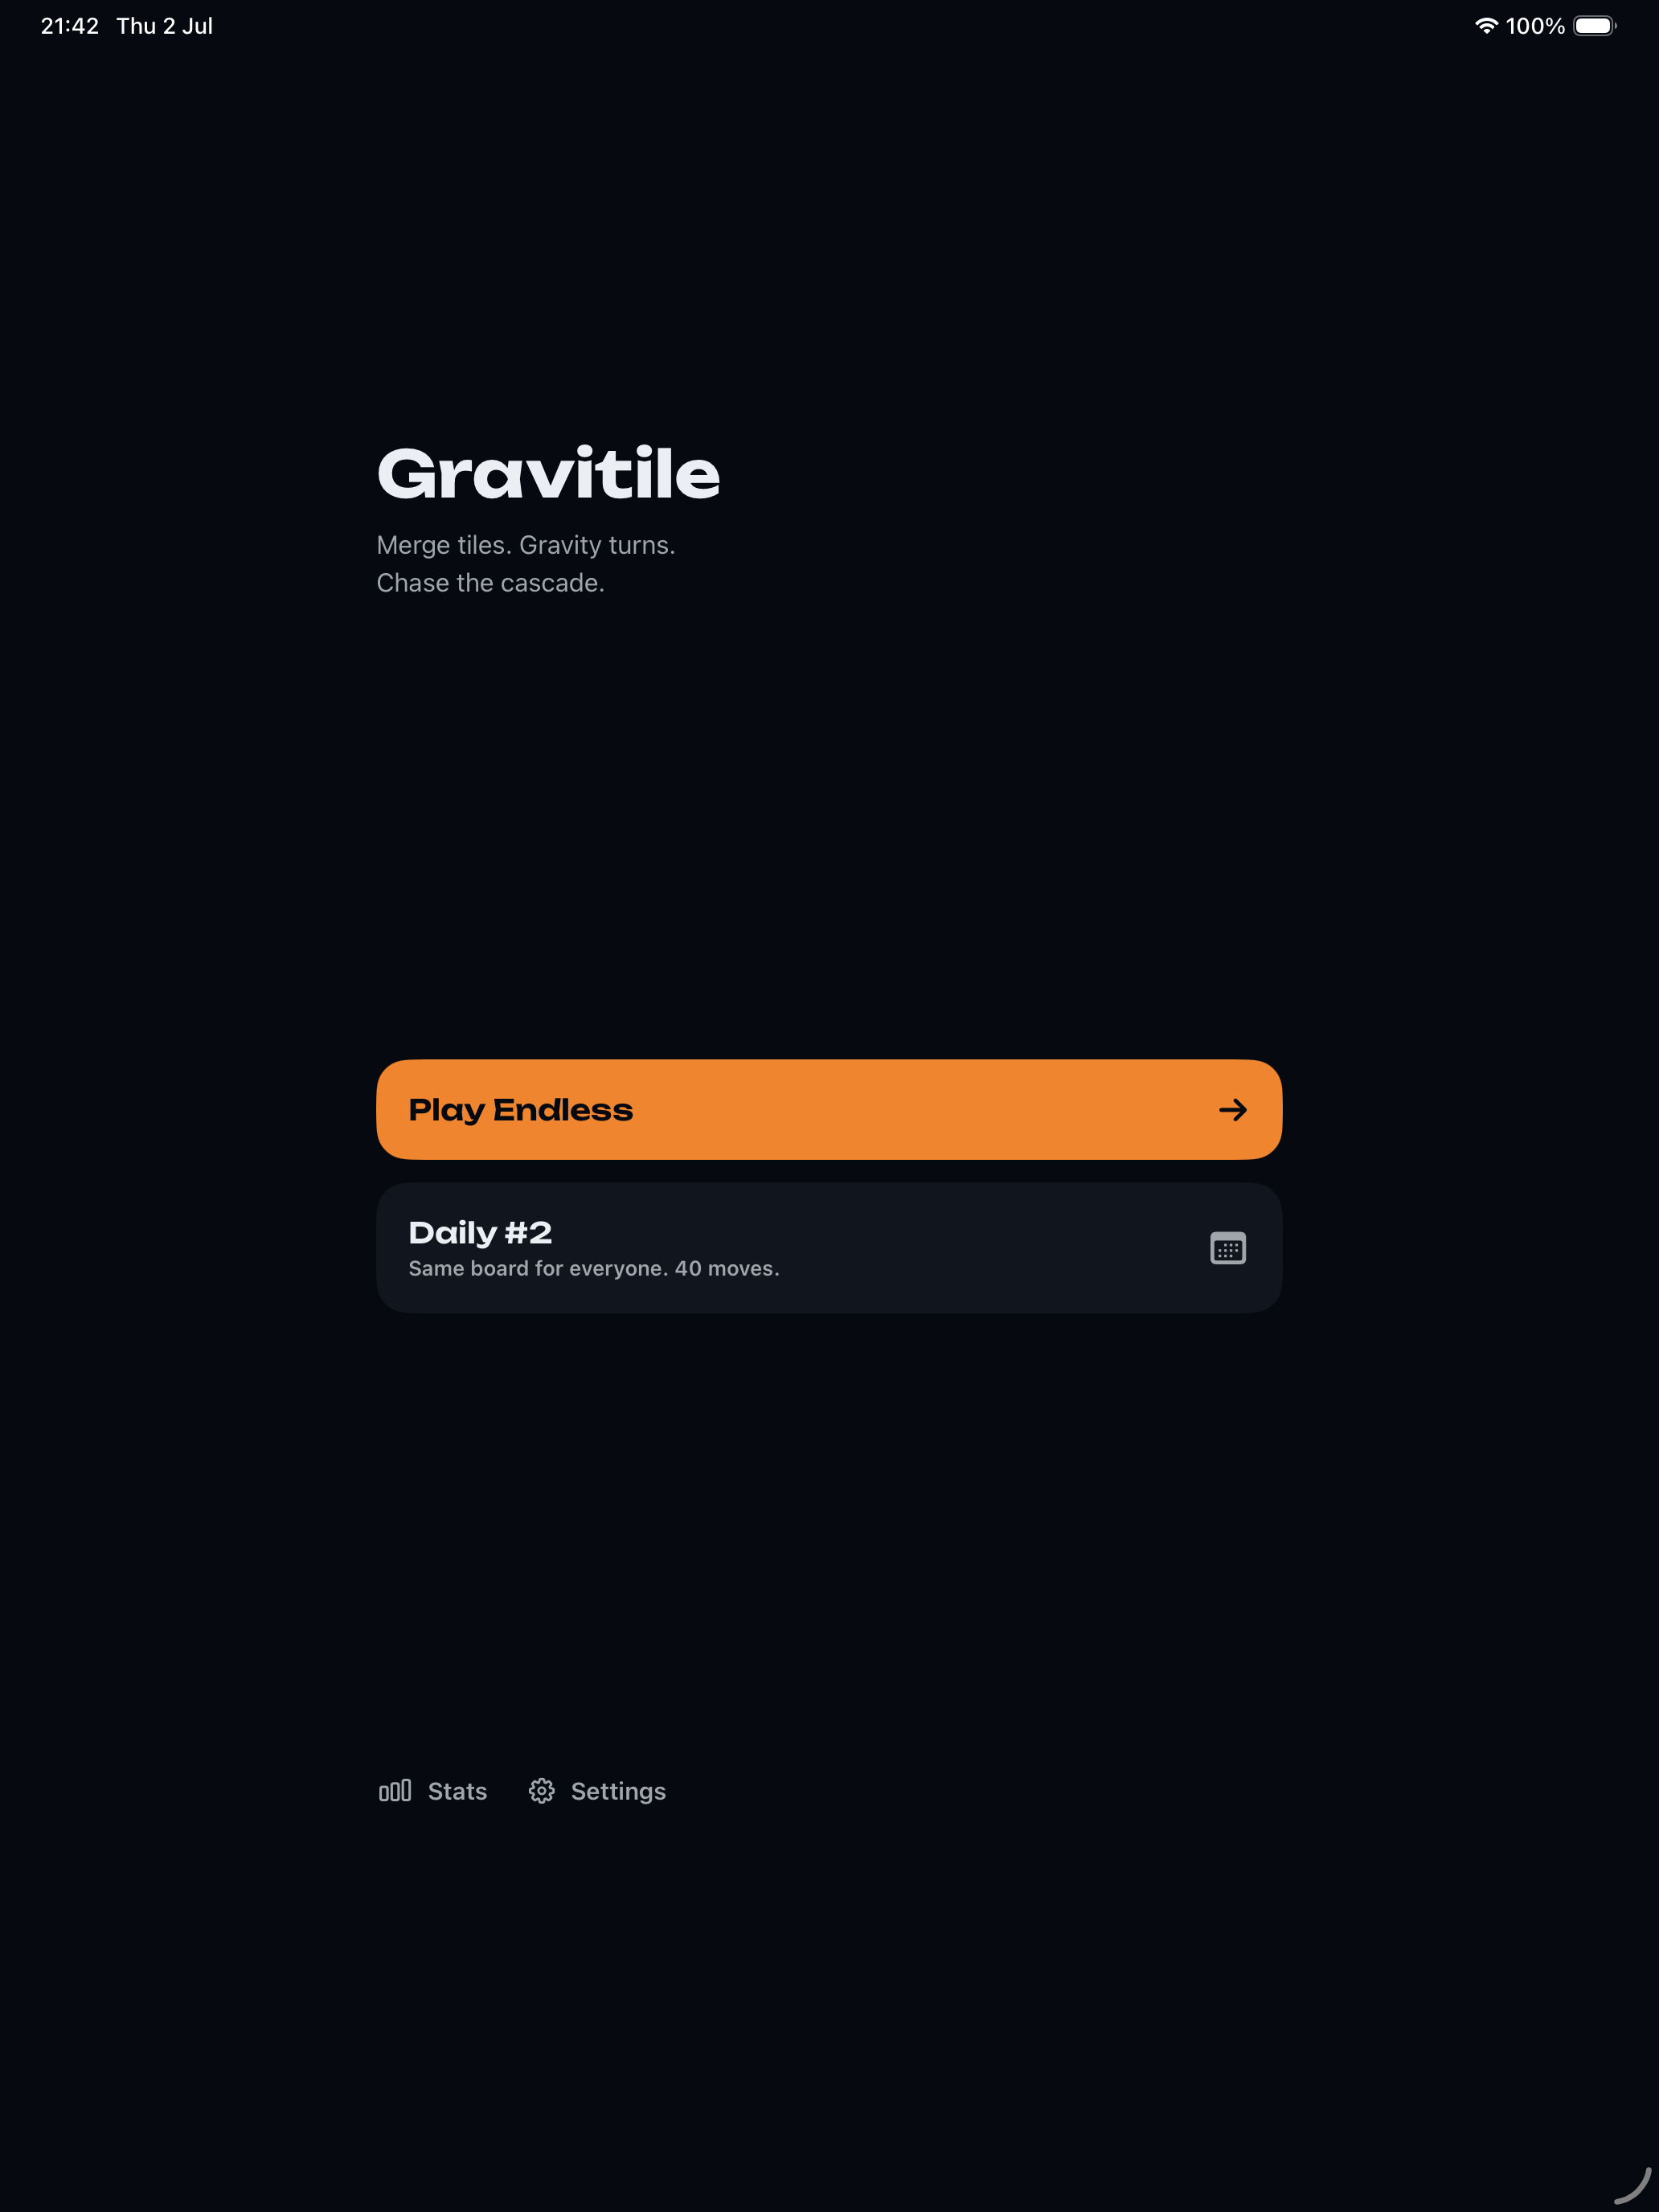
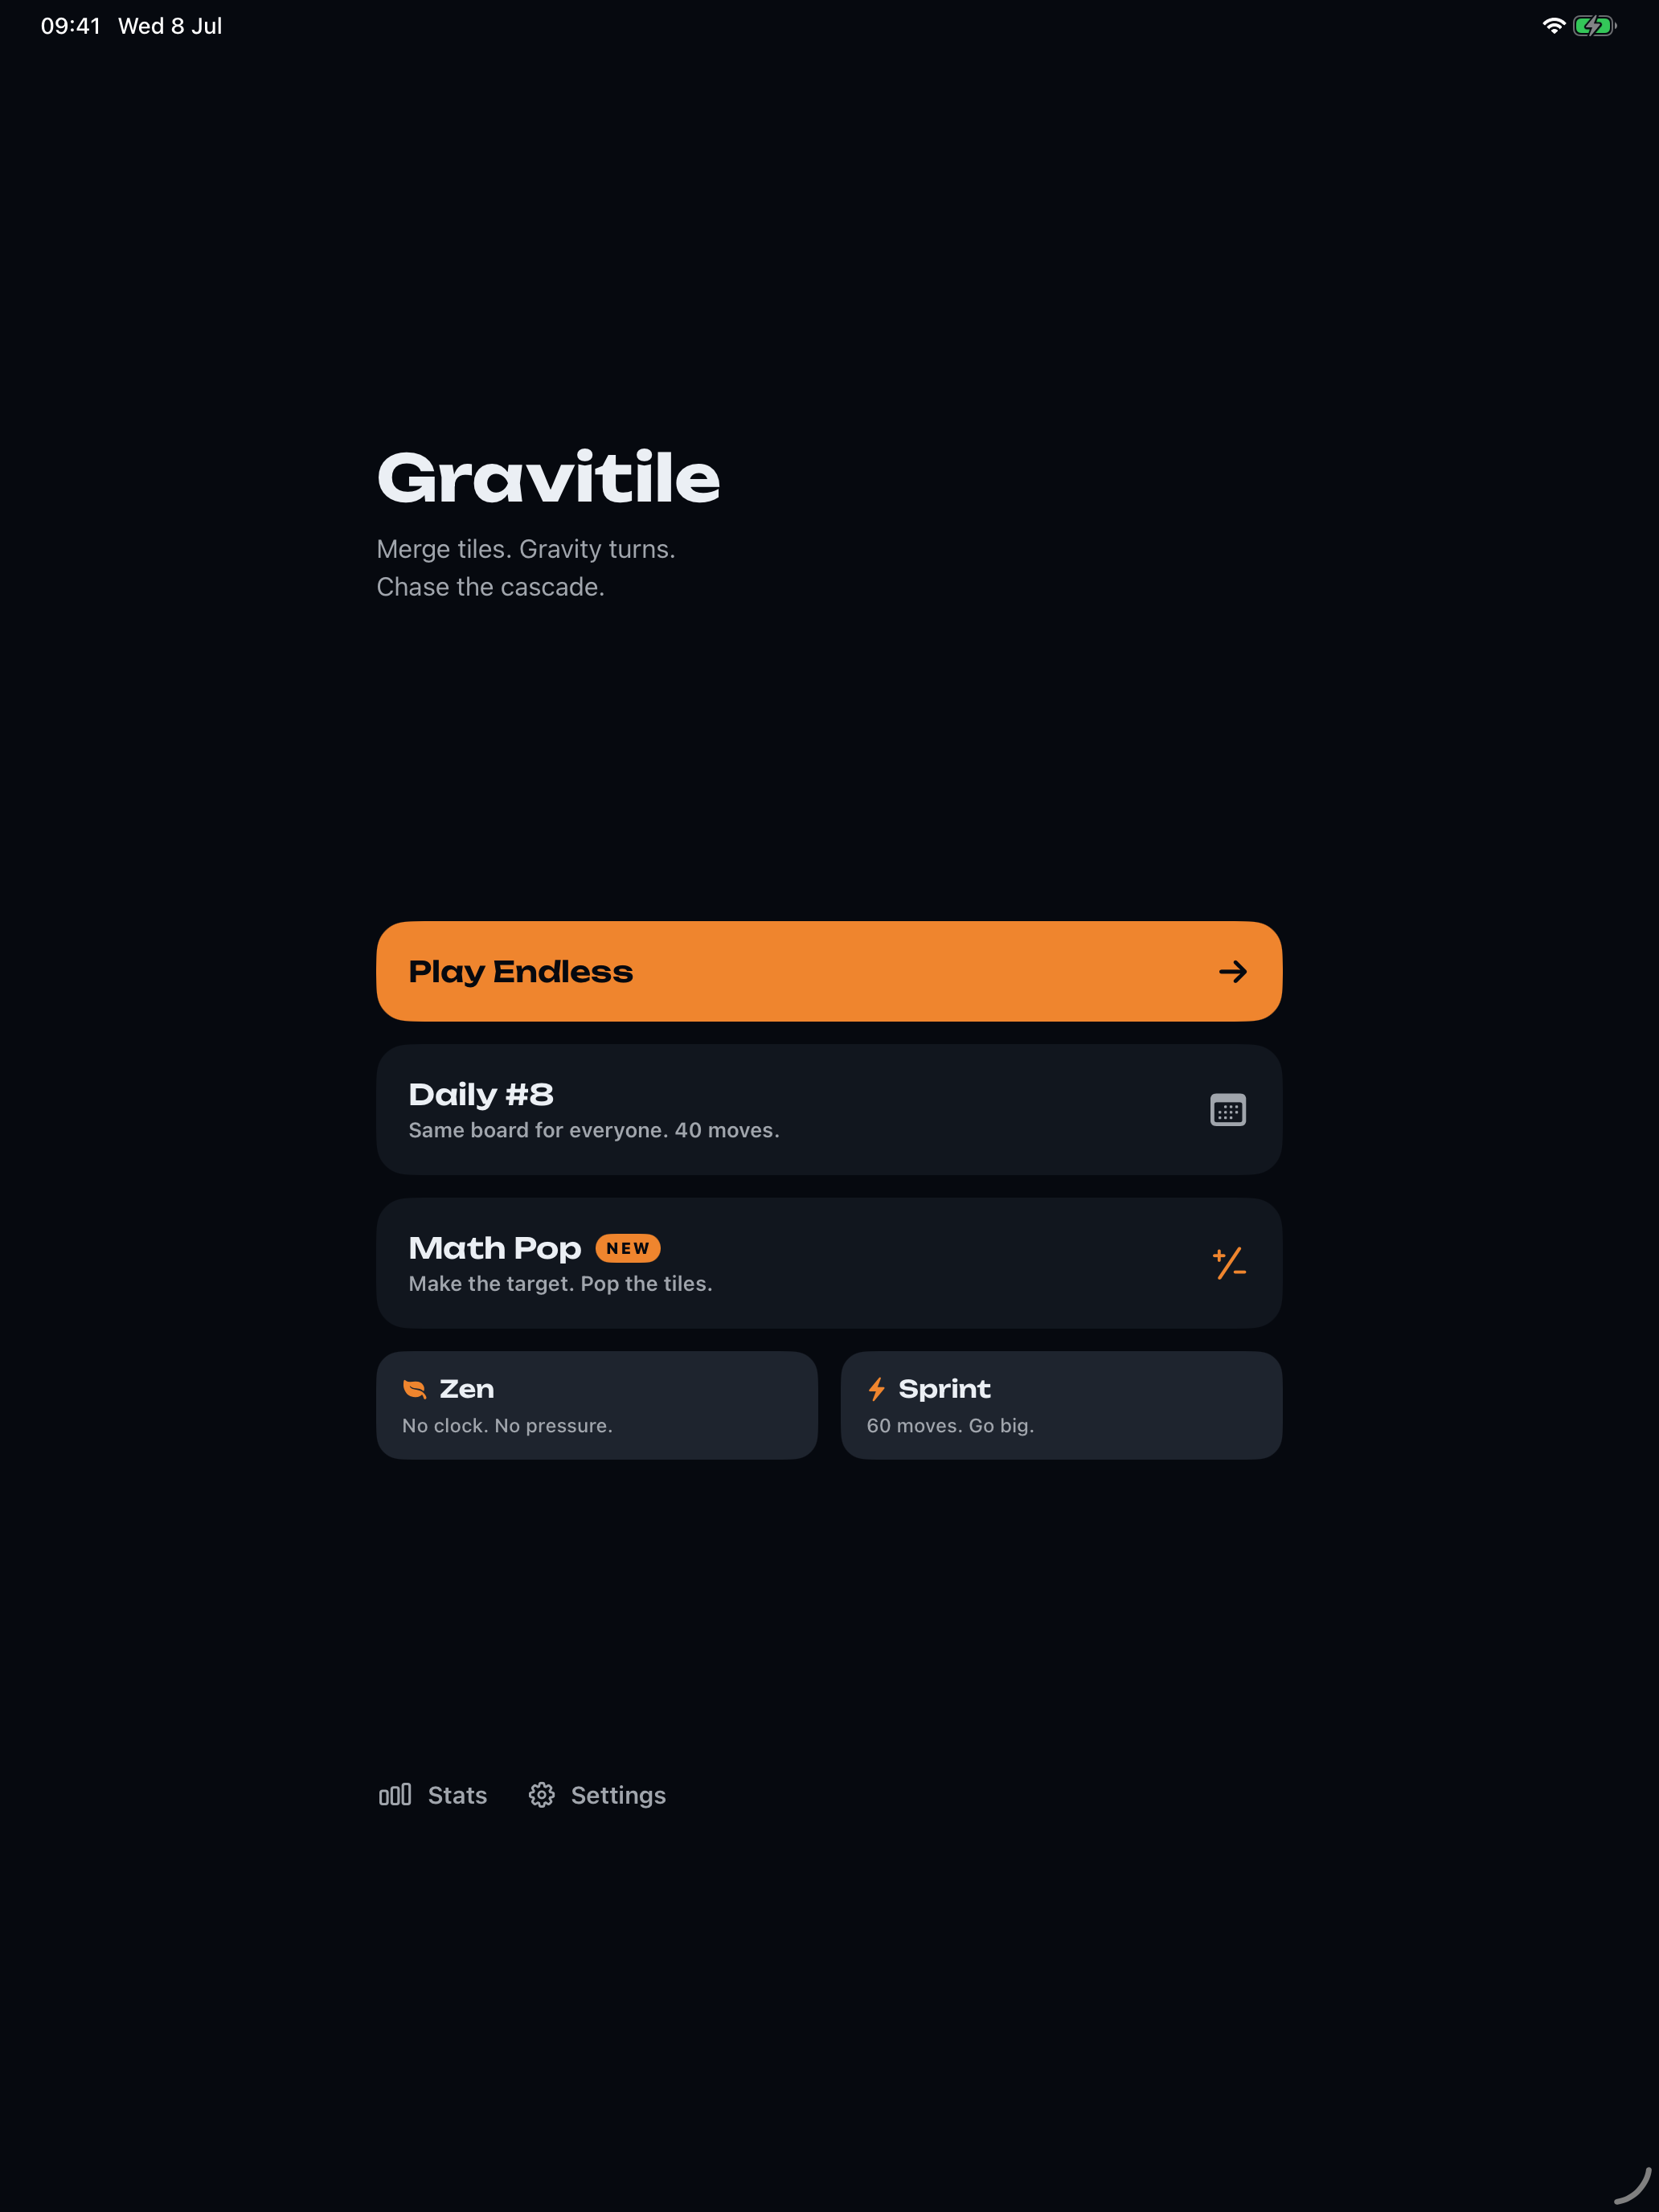
release: v1.3 (build 12) — store submission assets + watch GC entitlement
- Watch app now carries com.apple.developer.game-center (and its App ID the
  GAME_CENTER capability): ASC rejected build 11 at submission with
  BUILD_INDICATES_GAME_CENTER_DISABLED because a GC-configured version
  requires the entitlement on every nested bundle, and build 11 was the
  first store candidate to bundle the watch app.
- New v1.3 screenshot sets (flattened JPEGs — ASC rejects alpha PNGs):
  6.9-inch (8 shots incl. Math Pop equation pop, theme picker, restaged
  sprint/stats), iPad 13-inch (5 shots), watch (1). Store order encoded in
  filenames.
- Tools/publish_v13.py: metadata/notes/screenshot publisher with
  assetDeliveryState polling and safe set replacement (already run —
  version renamed 1.3, copy + notes live, all 14 assets COMPLETE).
- Copy revisions from the adversarial review: no 'for kids' phrasing
  (Guideline 2.3.8), watch claim softened, zen/stasis wording made
  literally accurate, keywords swap kids->education.

diff --git a/Tools/publish_v13.py b/Tools/publish_v13.py
@@ -1,0 +1,290 @@
+#!/usr/bin/env python3
+"""Pushes Gravitile v1.3 metadata, review notes, and screenshots via the ASC
+API, recovering from the 4.3(a) rejection of 1.0 (8).
+
+Steps (all idempotent — safe to re-run after a partial failure):
+  1. Remove REJECTED/REMOVED items from the open review submission so the
+     version becomes editable again (aborts if other item states remain).
+  2. Rename the rejected appStoreVersion 1.0 -> 1.3.
+  3. Push en-US copy (description / promo / keywords) from the v1.3 listing.
+  4. Replace App Review notes with the v1.3 walkthrough + 4.3(a) response.
+  5. Rebuild screenshot sets from flattened JPEGs (ASC rejects alpha PNGs —
+     the v1.0 lesson): fresh APP_IPHONE_67 (8), rebuilt APP_IPAD_PRO_3GEN_129
+     (5), new APP_WATCH_SERIES_10 (1, required now that build 11 bundles the
+     watch app). Every set is polled to COMPLETE before moving on, and the
+     stale APP_IPHONE_65 set is deleted only after its replacement verifies.
+
+Build attach + submit stays in submit_review.py (run with build number 11).
+"""
+import sys
+import time
+from pathlib import Path
+
+sys.path.insert(0, str(Path(__file__).parent))
+from ascapi import request, upload_asset, md5
+
+REPO = Path(__file__).resolve().parent.parent
+SHOTS = REPO / "docs/appstore/screenshots"
+
+VERSION_ID = "9a76a036-4ca2-4400-8028-cff63d063795"
+LOC_ID = "91be8477-5b3e-4d39-98cf-1fd7147ee73e"
+REVIEW_DETAIL_ID = "097e070a-7035-499e-a0b0-bb75f90e9f24"
+SUBMISSION_ID = "fd880674-4641-4e42-9d36-843002440e91"
+
+DESCRIPTION = """Gravitile is a merge puzzle with a twist you can feel: after every swipe, gravity turns 90 degrees — and the whole board tumbles.
+
+Swipe to slide and merge numbered tiles. Then watch the tumble: tiles fall toward the new gravity, and matching tiles crash together on their own, chaining cascades that multiply your score. The best players don't just plan the swipe — they plan the fall.
+
+HOW IT PLAYS
+• Swipe to merge — equal tiles fuse and double, classic and instant
+• Gravity rotates after every move — the compass shows what's coming
+• Cascades chain automatically as tiles tumble, multiplying points ×2, ×3, ×4…
+• The pressure builds the longer you survive. Every game has an ending.
+
+FIVE WAYS TO PLAY
+• Endless — chase your best score through rising pressure
+• The Daily — one seeded puzzle a day, identical for every player on Earth, 40 moves. Share your result and keep your streak alive (one missed day a week is forgiven).
+• Math Pop — the learning mode. Tiles carry small numbers, and two tiles that ADD UP to the target pop together: make 5, make 10 … make 16. Every pop shows its equation ("3 + 7 = 10"), and tiles wear the Cuisenaire rod colors used in real classrooms. Number bonds are the backbone of early arithmetic — here they're also how you score. Gentle enough for young learners, sneakily fun for grown-ups.
+• Zen — no clock, no pressure. Just the tumble.
+• Sprint — 60 moves. Post your biggest score.
+
+FIVE COLOR WORLDS
+Ember's navy night, Tidepool's ocean deeps, Meadow's cream daylight, Aurora's polar dusk, Sorbet's candy brights — every palette hand-tuned for contrast, including two full light themes. Pick yours in Settings.
+
+POWERUPS & HURDLES
+• Stasis — earn a Hold at 256, 512 or 1024, then freeze gravity for one move
+• Boulders — iced tiles that never merge; crack them free with adjacent merges
+
+ON APPLE WATCH
+The tumbling-merge game, playable on your wrist — swipe, tumble, merge. Your watch game is its own little world, ready anywhere.
+
+MADE WITH CARE
+• One free undo per game — experiment without fear
+• Game Center leaderboards and achievements — including a weekly Daily board
+• A calm ambient soundtrack, with haptics and sound tuned to every cascade
+• Beautiful rendered share cards for your best runs
+• Works fully offline. No account. No ads. No tracking. Ever.
+
+GRAVITILE PLUS (one-time purchase)
+• Replay any past daily from the archive
+• Unlimited undo
+• Support one independent developer
+
+The rules take ten seconds to learn. The tumble takes a lifetime to master."""
+
+PROMO = "Gravity rotates under every merge. Now with Math Pop — a playful number-bonds learning mode — and five hand-tuned color themes. No ads. No tracking."
+
+KEYWORDS = "merge,puzzle,daily,gravity,cascade,zen,math,education,learn,numbers,tile,logic,brain,offline"
+
+REVIEW_NOTES = """Gravitile is a merge puzzle where gravity rotates 90 degrees after every move. Fully offline, no account, no ads, no analytics, no third-party SDKs.
+
+ABOUT THE PRIOR 4.3(a) REJECTION (version 1.0, build 8)
+Every line of code and every asset is original, first-party work written for this app: the deterministic tumbling-gravity engine (a custom Swift package — gravity rotates 90 degrees after each move and cascades resolve on seeded random streams), the synthesized audio, the OKLCH-derived color palettes, and the fully custom SwiftUI interface. Nothing is templated, purchased, or repackaged; complete git history and design documents are available on request. This build (1.3) also adds substantial content we believe no similar app offers — described below. If a specific similarity to another app concerns the review team, we would genuinely appreciate a pointer so we can address it directly.
+
+WHAT'S NEW IN 1.3
+1. Math Pop — an arithmetic-learning mode (Home -> "Math Pop", NEW badge). Tiles carry small numbers; two tiles merge only when they ADD UP to the stage target ("Make 5" -> "Make 10" -> ... -> "Make 16"). Each completed bond pops off the board showing its equation ("3 + 7 = 10"), and tiles use the Cuisenaire rod colors taught in real classrooms. Free for everyone.
+2. Five color themes (Settings -> Theme): Ember, Tidepool, Meadow, Aurora, Sorbet — including two full light themes.
+3. Also added since the reviewed build: Zen and Sprint modes, a standalone Apple Watch game, the Stasis hold powerup, iced "boulder" tiles, rendered share cards, and detailed statistics.
+
+FLOWS TO TEST
+1. Home -> Play Endless: swipe to merge tiles; after each swipe gravity rotates (the compass above the board shows current -> next) and tiles tumble, auto-merging in cascades.
+2. Home -> Math Pop: swipe to slide; tiles that sum to the target pop with their equation; after six bonds the target advances and the board resets fresh.
+3. Home -> Daily: one seeded 40-move puzzle per UTC day, identical for all players.
+4. Settings -> Theme: switch between the five palettes live.
+5. Undo: one free undo per game (button bottom-left).
+
+IN-APP PURCHASES
+- Gravitile Plus (non-consumable, $2.99): unlocks past daily puzzles (Daily -> Archive rows) and unlimited undo. Reachable via Settings -> Unlock Plus, or any locked archive row.
+- Three optional tips (consumables) under Settings -> Tip jar. They unlock no content; a thank-you alert is the only effect.
+
+GAME CENTER
+Optional. Leaderboards and achievements cover the classic modes; the game is fully playable without signing in. Math Pop intentionally submits nothing.
+
+APPLE WATCH
+Standalone watchOS game (runs independently, no phone or account required) — swipe on the board to play.
+
+PRIVACY
+No data collected. Everything is stored on-device. The daily puzzle needs no server — it is seeded from the UTC date.
+
+Happy to answer anything at the contact email."""
+
+IPHONE_SHOTS = [SHOTS / "6.9-inch" / n for n in [
+    "01-home.jpg", "02-mathpop.jpg", "03-game.jpg", "04-themes.jpg",
+    "05-sprint.jpg", "06-daily.jpg", "07-stats.jpg", "08-gameover.jpg",
+]]
+IPAD_SHOTS = [SHOTS / "ipad-13" / n for n in [
+    "01-home.jpg", "02-mathpop.jpg", "03-game.jpg", "04-daily.jpg", "05-stats.jpg",
+]]
+WATCH_SHOTS = [SHOTS / "watch" / "01-game.jpg"]
+
+
+def step(label):
+    print(f"\n=== {label}")
+
+
+def clear_rejected_items():
+    status, items = request("GET", f"/v1/reviewSubmissions/{SUBMISSION_ID}/items")
+    assert status == 200, items
+    blockers = []
+    for item in items.get("data", []):
+        state = item["attributes"].get("state")
+        if state in ("REJECTED", "REMOVED"):
+            st, _ = request("DELETE", f"/v1/reviewSubmissionItems/{item['id']}")
+            print(f"removed {state} item -> {st}")
+        else:
+            blockers.append(state)
+    if blockers:
+        sys.exit(f"submission has items in states {blockers}; the version is "
+                 "locked — resolve those in ASC before re-running")
+
+
+def rename_version():
+    status, out = request("PATCH", f"/v1/appStoreVersions/{VERSION_ID}", {
+        "data": {"type": "appStoreVersions", "id": VERSION_ID,
+                 "attributes": {"versionString": "1.3"}}
+    })
+    assert status == 200, out
+    print("versionString ->", out["data"]["attributes"]["versionString"])
+
+
+def push_copy():
+    for name, value, limit in [("description", DESCRIPTION, 4000),
+                               ("promotionalText", PROMO, 170),
+                               ("keywords", KEYWORDS, 100)]:
+        assert len(value) <= limit, f"{name} too long: {len(value)} > {limit}"
+    status, out = request("PATCH", f"/v1/appStoreVersionLocalizations/{LOC_ID}", {
+        "data": {"type": "appStoreVersionLocalizations", "id": LOC_ID,
+                 "attributes": {"description": DESCRIPTION,
+                                "promotionalText": PROMO,
+                                "keywords": KEYWORDS}}
+    })
+    assert status == 200, out
+    print("copy set (description %d chars, promo %d, keywords %d)"
+          % (len(DESCRIPTION), len(PROMO), len(KEYWORDS)))
+
+
+def push_review_notes():
+    assert len(REVIEW_NOTES) <= 4000, f"notes too long: {len(REVIEW_NOTES)}"
+    status, out = request("PATCH", f"/v1/appStoreReviewDetails/{REVIEW_DETAIL_ID}", {
+        "data": {"type": "appStoreReviewDetails", "id": REVIEW_DETAIL_ID,
+                 "attributes": {"notes": REVIEW_NOTES}}
+    })
+    assert status == 200, out
+    print("review notes set (%d chars)" % len(REVIEW_NOTES))
+
+
+def get_sets():
+    status, sets = request("GET", f"/v1/appStoreVersionLocalizations/{LOC_ID}/appScreenshotSets")
+    assert status == 200, sets
+    return {s["attributes"]["screenshotDisplayType"]: s["id"] for s in sets["data"]}
+
+
+def ensure_empty_set(display_type):
+    sets = get_sets()
+    if display_type in sets:
+        set_id = sets[display_type]
+        st, shots = request("GET", f"/v1/appScreenshotSets/{set_id}/appScreenshots?limit=15")
+        assert st == 200, shots
+        for sh in shots.get("data", []):
+            st2, out = request("DELETE", f"/v1/appScreenshots/{sh['id']}")
+            assert st2 in (200, 204), out
+        print(f"emptied existing {display_type} set ({len(shots.get('data', []))} old shots)")
+        return set_id
+    status, out = request("POST", "/v1/appScreenshotSets", {
+        "data": {"type": "appScreenshotSets",
+                 "attributes": {"screenshotDisplayType": display_type},
+                 "relationships": {"appStoreVersionLocalization": {
+                     "data": {"type": "appStoreVersionLocalizations", "id": LOC_ID}}}}
+    })
+    assert status == 201, out
+    print(f"created {display_type} set")
+    return out["data"]["id"]
+
+
+def upload_shots(set_id, files):
+    for shot in files:
+        file_bytes = shot.read_bytes()
+        status, out = request("POST", "/v1/appScreenshots", {
+            "data": {"type": "appScreenshots",
+                     "attributes": {"fileName": shot.name, "fileSize": len(file_bytes)},
+                     "relationships": {"appScreenshotSet": {
+                         "data": {"type": "appScreenshotSets", "id": set_id}}}}
+        })
+        assert status == 201, out
+        shot_id = out["data"]["id"]
+        upload_asset(out["data"]["attributes"]["uploadOperations"], file_bytes)
+        status, out = request("PATCH", f"/v1/appScreenshots/{shot_id}", {
+            "data": {"type": "appScreenshots", "id": shot_id,
+                     "attributes": {"uploaded": True, "sourceFileChecksum": md5(file_bytes)}}
+        })
+        assert status == 200, out
+        print(f"  uploaded {shot.name}")
+    wait_for_processing(set_id, len(files))
+
+
+def wait_for_processing(set_id, expected, timeout=300):
+    """Screenshot validation is asynchronous; a shot only counts once its
+    assetDeliveryState reaches COMPLETE. FAILED (bad dims, alpha, checksum)
+    aborts loudly instead of letting a broken set reach submission."""
+    deadline = time.time() + timeout
+    while True:
+        st, shots = request(
+            "GET",
+            f"/v1/appScreenshotSets/{set_id}/appScreenshots"
+            "?limit=15&fields[appScreenshots]=fileName,assetDeliveryState"
+        )
+        assert st == 200, shots
+        states = {}
+        for sh in shots.get("data", []):
+            state = (sh["attributes"].get("assetDeliveryState") or {}).get("state")
+            states[sh["attributes"].get("fileName")] = state
+        failed = [f for f, s in states.items() if s == "FAILED"]
+        assert not failed, f"asset processing FAILED for {failed}: {shots}"
+        complete = [f for f, s in states.items() if s == "COMPLETE"]
+        if len(complete) == expected and len(states) == expected:
+            print(f"  all {expected} shots COMPLETE")
+            return
+        if time.time() > deadline:
+            sys.exit(f"timed out waiting for processing; states: {states}")
+        time.sleep(5)
+
+
+def main():
+    for f in IPHONE_SHOTS + IPAD_SHOTS + WATCH_SHOTS:
+        assert f.exists(), f"missing screenshot {f}"
+
+    step("1. clear rejected submission items")
+    clear_rejected_items()
+
+    step("2. rename version 1.0 -> 1.3")
+    rename_version()
+
+    step("3. push v1.3 copy")
+    push_copy()
+
+    step("4. push review notes")
+    push_review_notes()
+
+    step("5a. iPhone 6.9-inch set (APP_IPHONE_67)")
+    upload_shots(ensure_empty_set("APP_IPHONE_67"), IPHONE_SHOTS)
+
+    step("5b. delete stale APP_IPHONE_65 set (replacement verified above)")
+    sets = get_sets()
+    if "APP_IPHONE_65" in sets:
+        st, out = request("DELETE", f"/v1/appScreenshotSets/{sets['APP_IPHONE_65']}")
+        assert st in (200, 204), out
+        print(f"deleted APP_IPHONE_65 -> {st}")
+    else:
+        print("already gone")
+
+    step("5c. iPad 13-inch set (APP_IPAD_PRO_3GEN_129)")
+    upload_shots(ensure_empty_set("APP_IPAD_PRO_3GEN_129"), IPAD_SHOTS)
+
+    step("5d. watch set (APP_WATCH_SERIES_10)")
+    upload_shots(ensure_empty_set("APP_WATCH_SERIES_10"), WATCH_SHOTS)
+
+    print("\nPUBLISH v1.3 DONE — next: Tools/submit_review.py 11")
+
+
+if __name__ == "__main__":
+    main()

diff --git a/docs/appstore/listing.md b/docs/appstore/listing.md
@@ -12,8 +12,11 @@
 
 ## Promotional text (170 chars max)
 
-Gravity rotates under every merge. Now with Math Pop — a number-bonds mode
-kids can learn from — and five hand-tuned color themes. No ads. No tracking. (152)
+Gravity rotates under every merge. Now with Math Pop — a playful number-bonds
+learning mode — and five hand-tuned color themes. No ads. No tracking. (150)
+
+(Deliberately no "for kids" phrasing anywhere in public metadata — Guideline
+2.3.8 reserves it for Kids Category apps, which the paywall/tip jar rule out.)
 
 ## Description (4000 chars max)
 
@@ -37,11 +40,12 @@ the swipe — they plan the fall.
   40 moves. Share your result as an emoji card and keep your streak alive
   (one missed day a week is forgiven).
 • Math Pop — the learning mode. Tiles carry small numbers, and two tiles that
-  ADD UP to the target pop together: make 5, make 10, make 16… Every pop
+  ADD UP to the target pop together: make 5, make 10 … make 16. Every pop
   shows its equation ("3 + 7 = 10"), and tiles wear the Cuisenaire rod colors
   used in real classrooms. Number bonds are the backbone of early arithmetic —
-  here they're also how you score. Made for kids; sneaky-fun for adults.
-• Zen — no clock, no pressure, no ending. Just the tumble.
+  here they're also how you score. Gentle enough for young learners, sneakily
+  fun for grown-ups.
+• Zen — no clock, no pressure. Just the tumble.
 • Sprint — 60 moves. Post your biggest score.
 
 **FIVE COLOR WORLDS**
@@ -50,7 +54,7 @@ polar dusk, Sorbet's candy brights — every palette hand-tuned for contrast,
 including two full light themes. Pick yours in Settings.
 
 **ON APPLE WATCH**
-The full tumbling-merge game, playable on your wrist — swipe, tumble, merge.
+The tumbling-merge game, playable on your wrist — swipe, tumble, merge.
 Your watch game is its own little world, ready anywhere.
 
 **MADE WITH CARE**
@@ -69,10 +73,11 @@ The rules take ten seconds to learn. The tumble takes a lifetime to master.
 
 ## Keywords (100 chars max)
 
-merge,puzzle,daily,gravity,cascade,zen,math,kids,learn,numbers,tile,logic,brain,offline
+merge,puzzle,daily,gravity,cascade,zen,math,education,learn,numbers,tile,logic,brain,offline
 
-(87 chars — "2048" dropped: Math Pop and the tumble are the identity, not the
-comparison; math/kids/learn/numbers cover the new audience)
+(92 chars — "2048" dropped: Math Pop and the tumble are the identity, not the
+comparison; "kids" swapped for "education" to stay clear of Kids Category
+phrasing rules)
 
 ## What's New — v1.3
 